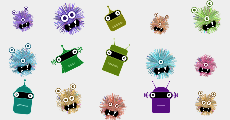
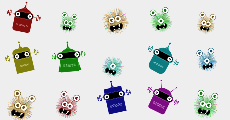
initial expermentation creating a controlled distribution. I am happy with the result but want to improve the selection of potential colours for the monsters before I consider it complete.

diff --git a/sketch.js b/sketch.js
@@ -38,6 +38,7 @@ function setup () {
 
 function changeRandomSeed() {
   curRandomSeed = curRandomSeed + 1;
+  robotCount = 0;
   redraw();
 }
 
@@ -411,7 +412,7 @@ function draw () {
 
   noStroke();
   background(bg_color1);
-
+ 
   
   var w = canvasWidth / 5;
   var h = canvasHeight / 3;
@@ -424,19 +425,55 @@ function draw () {
   }
 }
 
+//an array that consists of the potential values for a monsters hue
+var monsterHues = [0, 40, 65, 120, 170, 200];
+
+/* 
+ * JSON object consisting of six hue ranges 
+ * used to ensure each robot has a unique hue
+ * the third element of each array is the midpoint of the range 
+ * which is used to set the mean value for the focusedRandom function
+ */
+var robotHueRanges = {
+	1 : [-30, 30, 0],
+	2 : [31, 90, 60],
+	3 : [91, 150, 120],
+	4 : [151, 210, 180],
+	5 : [211, 270, 240],
+	6 : [271, 330, 300]
+}
+
+var robotCount = 0;
+
+/**
+ * determines whether to draw a monster or robot face
+ * there will be a maximum of six robots and each robot will have a unique colour
+ * @param {Number} x        - x position where the face will be drawn
+ * @param {Number} y    	- y position where the face will be drawn
+ */
 function drawFace (x, y) {
   var face = random(['monster', 'robot']);
-  var discrete_setting = Math.floor(focusedRandom(1, 5));
-  var hue = focusedRandom(0, 350);
-  if(face == "monster"){
-    var eye_size = focusedRandom(30, 60);
-    var zigzag = focusedRandom(1, 20);
+  //common variable shared by both faces
+  var discrete_setting = getRandomNumberForDiscreteSetting();
+  //there will be a maximum of 12 robots on the canvas
+  if(face == "monster" || robotCount >= 6){
+	//get the monsters hue from a set collection of values
+	var arrayPointer = Math.floor(random(0, 6));
+	var hue = monsterHues[arrayPointer];
+	//the amount zig zig present in the pattern should lean towards a smaller value
+    var zigzag = focusedRandom(1, 20, 10, 3);
     var size_adjuster = focusedRandom(0.3, 0.6);
+	//the smaller the monster is the bigger its eyes should be
+    var eye_size = focusedRandom(20, 70, 10, 100 - (size_adjuster * 100));
     var tilt_value = focusedRandom(-15, 45);
     drawMonsterFace(x, y, discrete_setting, eye_size, hue, zigzag, size_adjuster, tilt_value);
   }
   else if(face == "robot"){
-    var face_height = focusedRandom(0, 200);
+	robotCount++;
+	//the face height should be closer to the center of the range
+    var face_height = focusedRandom(0, 200, 5, 100);
+	//the hue should be focused toward the center of this robots hue range
+	var hue = focusedRandom(robotHueRanges[robotCount][0], robotHueRanges[robotCount][1], 10, robotHueRanges[robotCount][2]);
     var face_shape = focusedRandom(0, 200);
     var mouth_style = focusedRandom(50, 10);
     var eye_distance = focusedRandom(50, 0);
@@ -444,6 +481,34 @@ function drawFace (x, y) {
     drawRobotFace(x, y, discrete_setting, face_height, hue, face_shape, mouth_style, eye_distance, tilt_value);
   }
 }
+
+/**
+ * This function determines what value will be used for the discrete setting of each face (eyes or antennas)
+ * @return {Number} - the value to use as the discrete setting
+ */
+function getRandomNumberForDiscreteSetting() {
+  var random_result = focusedRandom(0, 100);
+  //10% chance
+  if(random_result < 10) {
+    return 1;
+  }
+  //15% chance
+  else if(random_result < 25) {
+    return 2;
+  }
+  //50% chance
+  else if(random_result < 75) {
+	return 3;
+  }
+  //25% chance
+  else {
+    return 4;
+  }
+}
+
+
+
+
 
 function keyTyped() {
   if (key == '!') {
